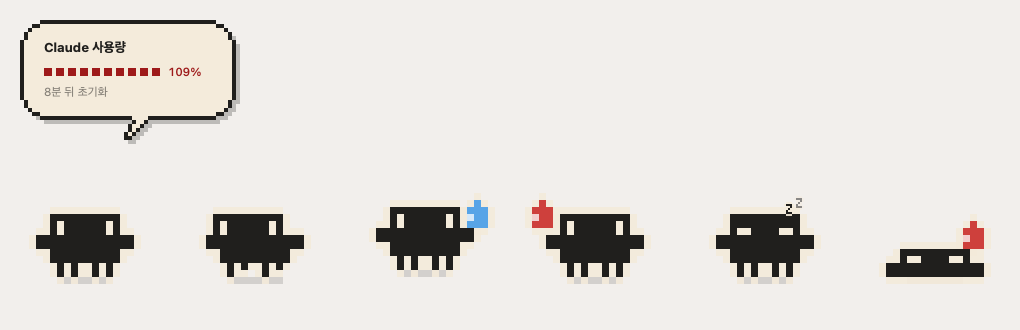
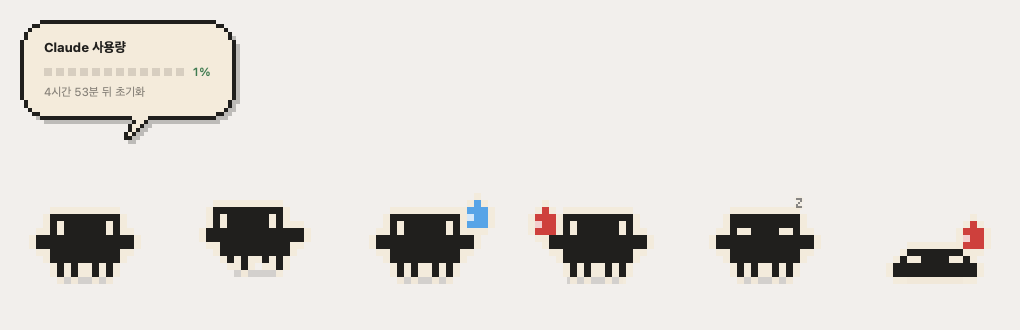
지친 상태의 숨쉬기를 몸 전체가 부푸는 방식으로 확정
한 줄씩만 넓히면 머리나 배만 따로 움직여 어색했다. 모든 줄을 양옆으로
한 칸씩 함께 넓히고, 눈만 같은 칸에 고정해 몸이 부풀어도 눈이 따로
튀지 않게 했다. 높이와 바닥선은 변하지 않는다.

diff --git a/buddy/sprite.py b/buddy/sprite.py
@@ -38,7 +38,7 @@ _LEGS_STAND = ["   # #  # #   ", "   # #  # #   "]
 # 다 써 버렸을 때. 바닥에 눌린 듯 납작하게 퍼진다.
 # 머리와 눈, 팔 위치는 서 있을 때 그대로 두어야 같은 녀석으로 보인다.
 # 높이는 9줄로 맞춰야 바닥선이 어긋나지 않는다.
-_LYING_OUT = [          # 날숨
+_LYING_OUT = [          # 날숨 — 몸 전체가 한 칸씩 좁아진다
     "              ",
     "              ",
     "              ",
@@ -46,17 +46,17 @@ _LYING_OUT = [          # 날숨
     "              ",
     "   ########   ",
     "  #oo####oo#  ",
-    "##############",
-    "##############",
+    " ############ ",
+    " ############ ",
 ]
-_LYING_IN = [           # 들숨 — 높이는 그대로 두고 등만 양옆으로 한 칸씩 부푼다
-    "              ",
+_LYING_IN = [           # 들숨 — 모든 줄이 양옆으로 한 칸씩 넓어진다.
+    "              ",  # 눈은 같은 칸에 두어 따로 움직이지 않게 한다.
     "              ",
     "              ",
     "              ",
     "              ",
     "  ##########  ",
-    "  #oo####oo#  ",
+    " ##oo####oo## ",
     "##############",
     "##############",
 ]
